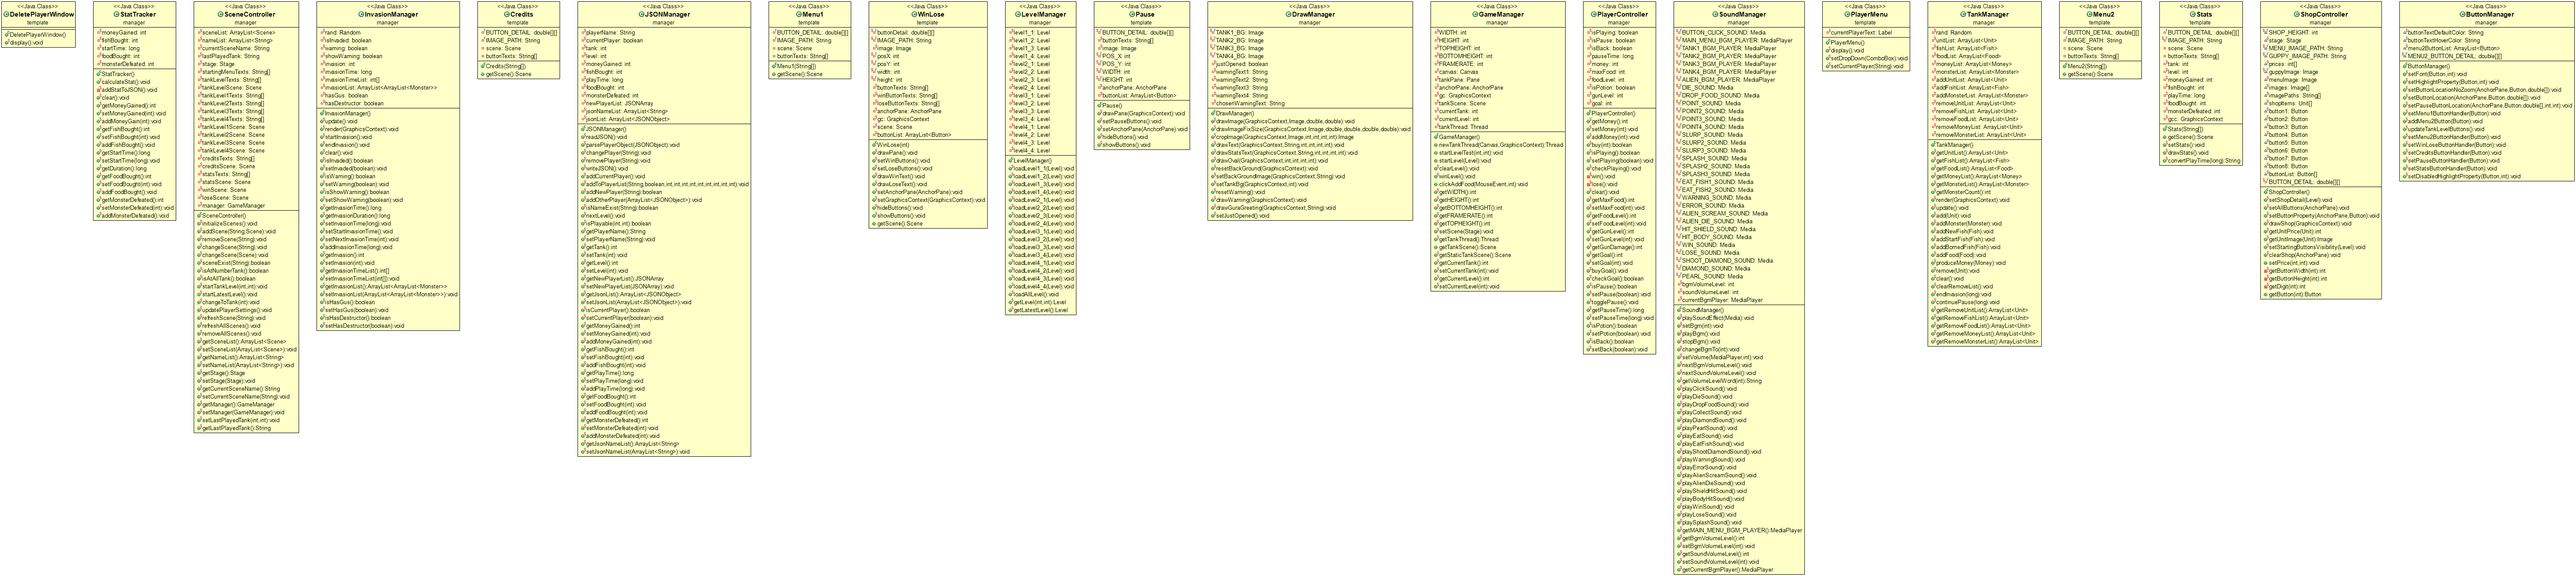
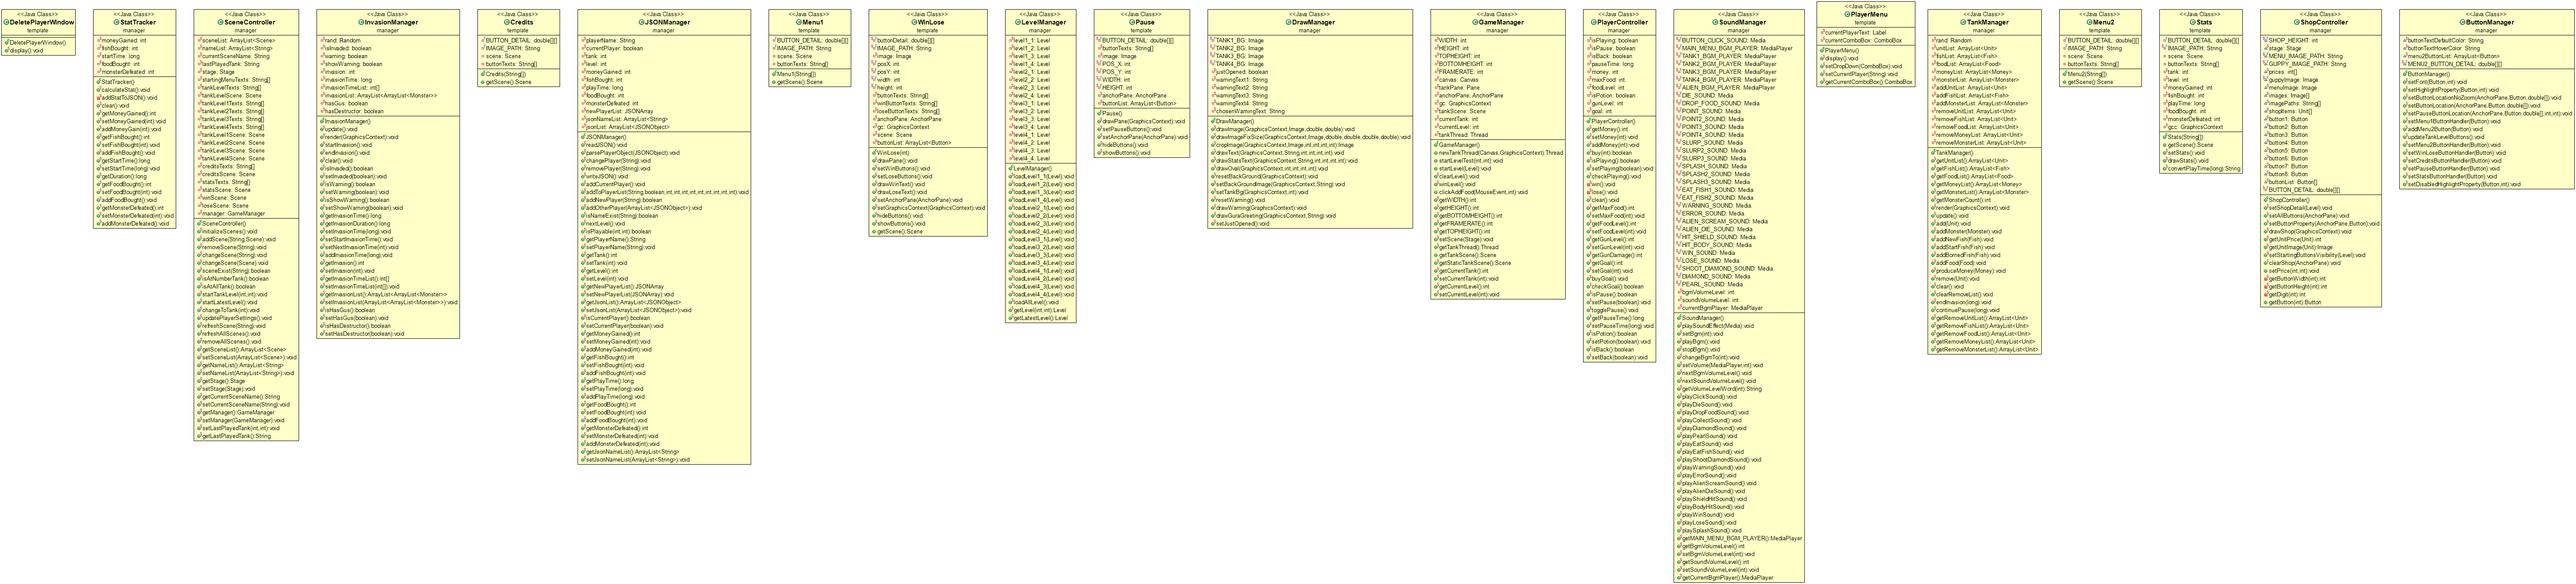
Fixed playermenu bug

Changed region(s): [[0.0, 0.0, 1.0, 0.9954]]

diff --git a/src/template/PlayerMenu.java b/src/template/PlayerMenu.java
@@ -18,6 +18,7 @@ import manager.SceneController;
 
 public class PlayerMenu {
 	private static Label currentPlayerText = new Label();
+	private static ComboBox currentComboBox;
 
 	public static void display() {
 		Stage window = new Stage();
@@ -33,6 +34,7 @@ public class PlayerMenu {
 		Label changePlayerText = new Label("Change Player to: ");
 
 		ComboBox comboBox1 = new ComboBox();
+		currentComboBox = comboBox1;
 		setDropDown(comboBox1);
 
 		Button confirmButton = new Button("Confirm");
@@ -168,10 +170,19 @@ public class PlayerMenu {
 		for (int i = 0; i < JSONManager.getJsonNameList().size(); i++) {
 			comboBox.getItems().add(JSONManager.getJsonNameList().get(i));
 		}
+		if (JSONManager.getJsonNameList().size() == 0) {
+			comboBox.setDisable(true);
+		} else if (JSONManager.getJsonNameList().size() > 0) {
+			comboBox.setDisable(false);
+		}
 	}
 
 	public static void setCurrentPlayer(String playerName) {
 		currentPlayerText.setText("Current Player: " + playerName);
+	}
+
+	public static ComboBox getCurrentComboBox() {
+		return currentComboBox;
 	}
 
 }

diff --git a/src/template/DeletePlayerWindow.java b/src/template/DeletePlayerWindow.java
@@ -38,6 +38,7 @@ public class DeletePlayerWindow {
 				PlayerMenu.setCurrentPlayer(JSONManager.getPlayerName());
 				JSONManager.removePlayer(confirmationField.getText());
 				Alert alert = new Alert(AlertType.INFORMATION);
+				PlayerMenu.setDropDown(PlayerMenu.getCurrentComboBox());
 				alert.setTitle("Deleted Successfully");
 				alert.setHeaderText(null);
 				alert.setContentText("Player " + confirmationField.getText() + " removed from database.");
